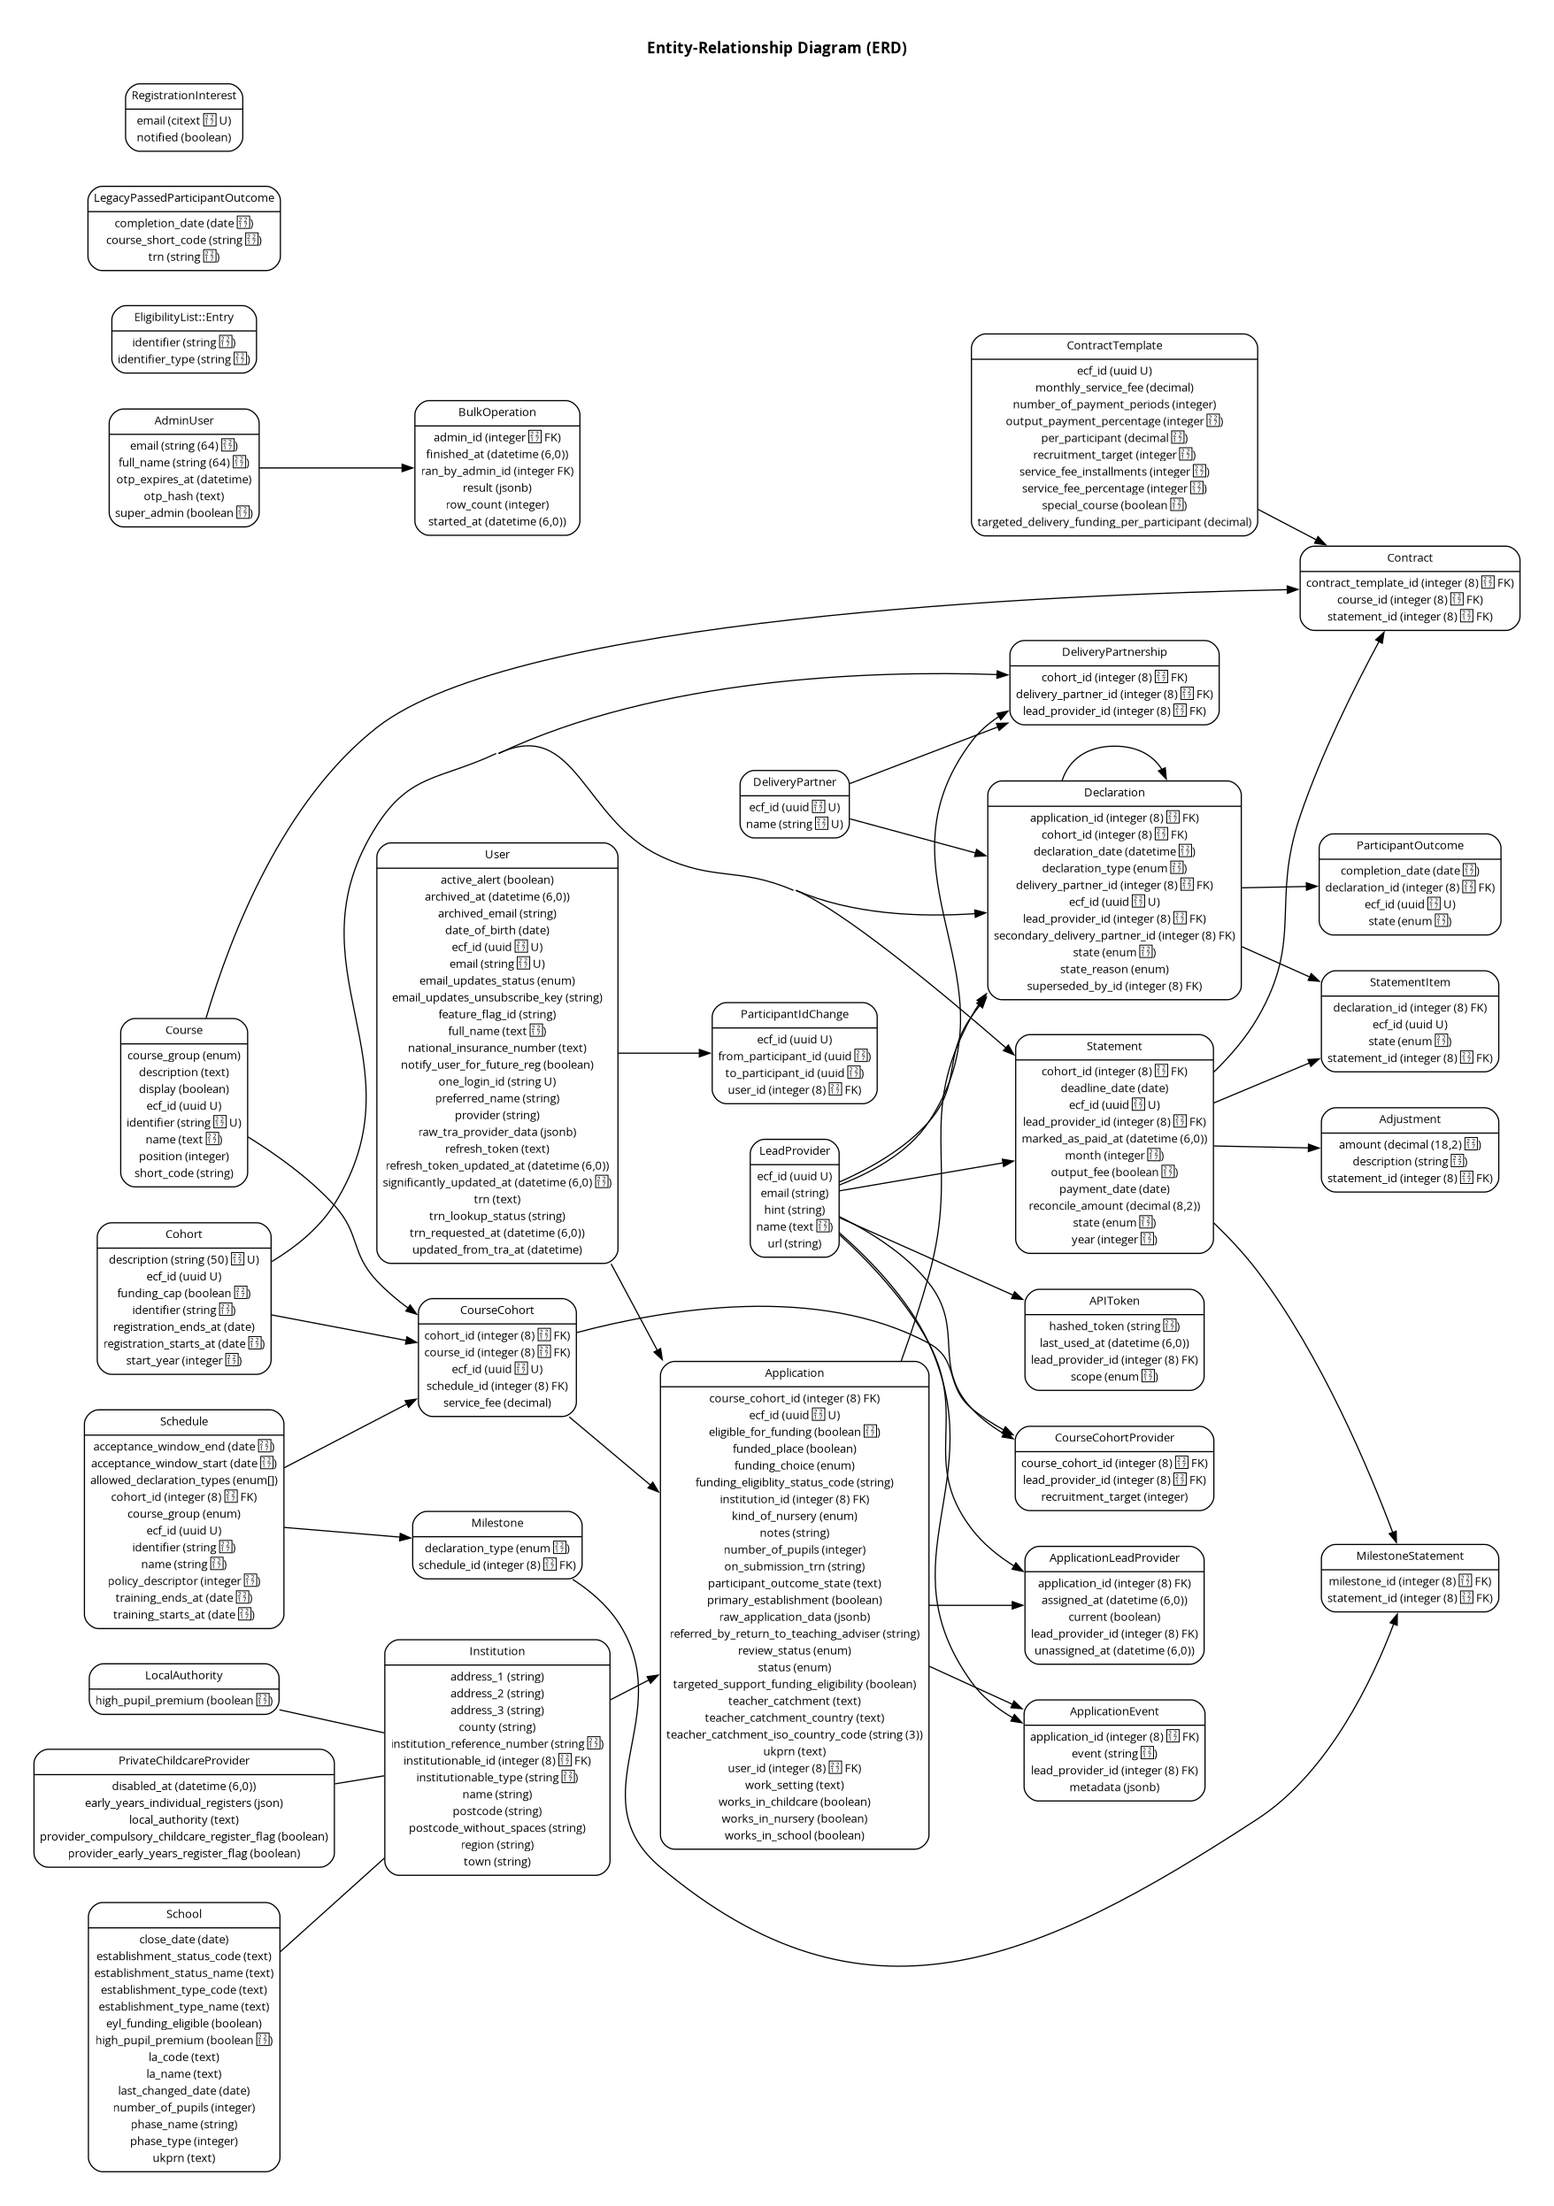
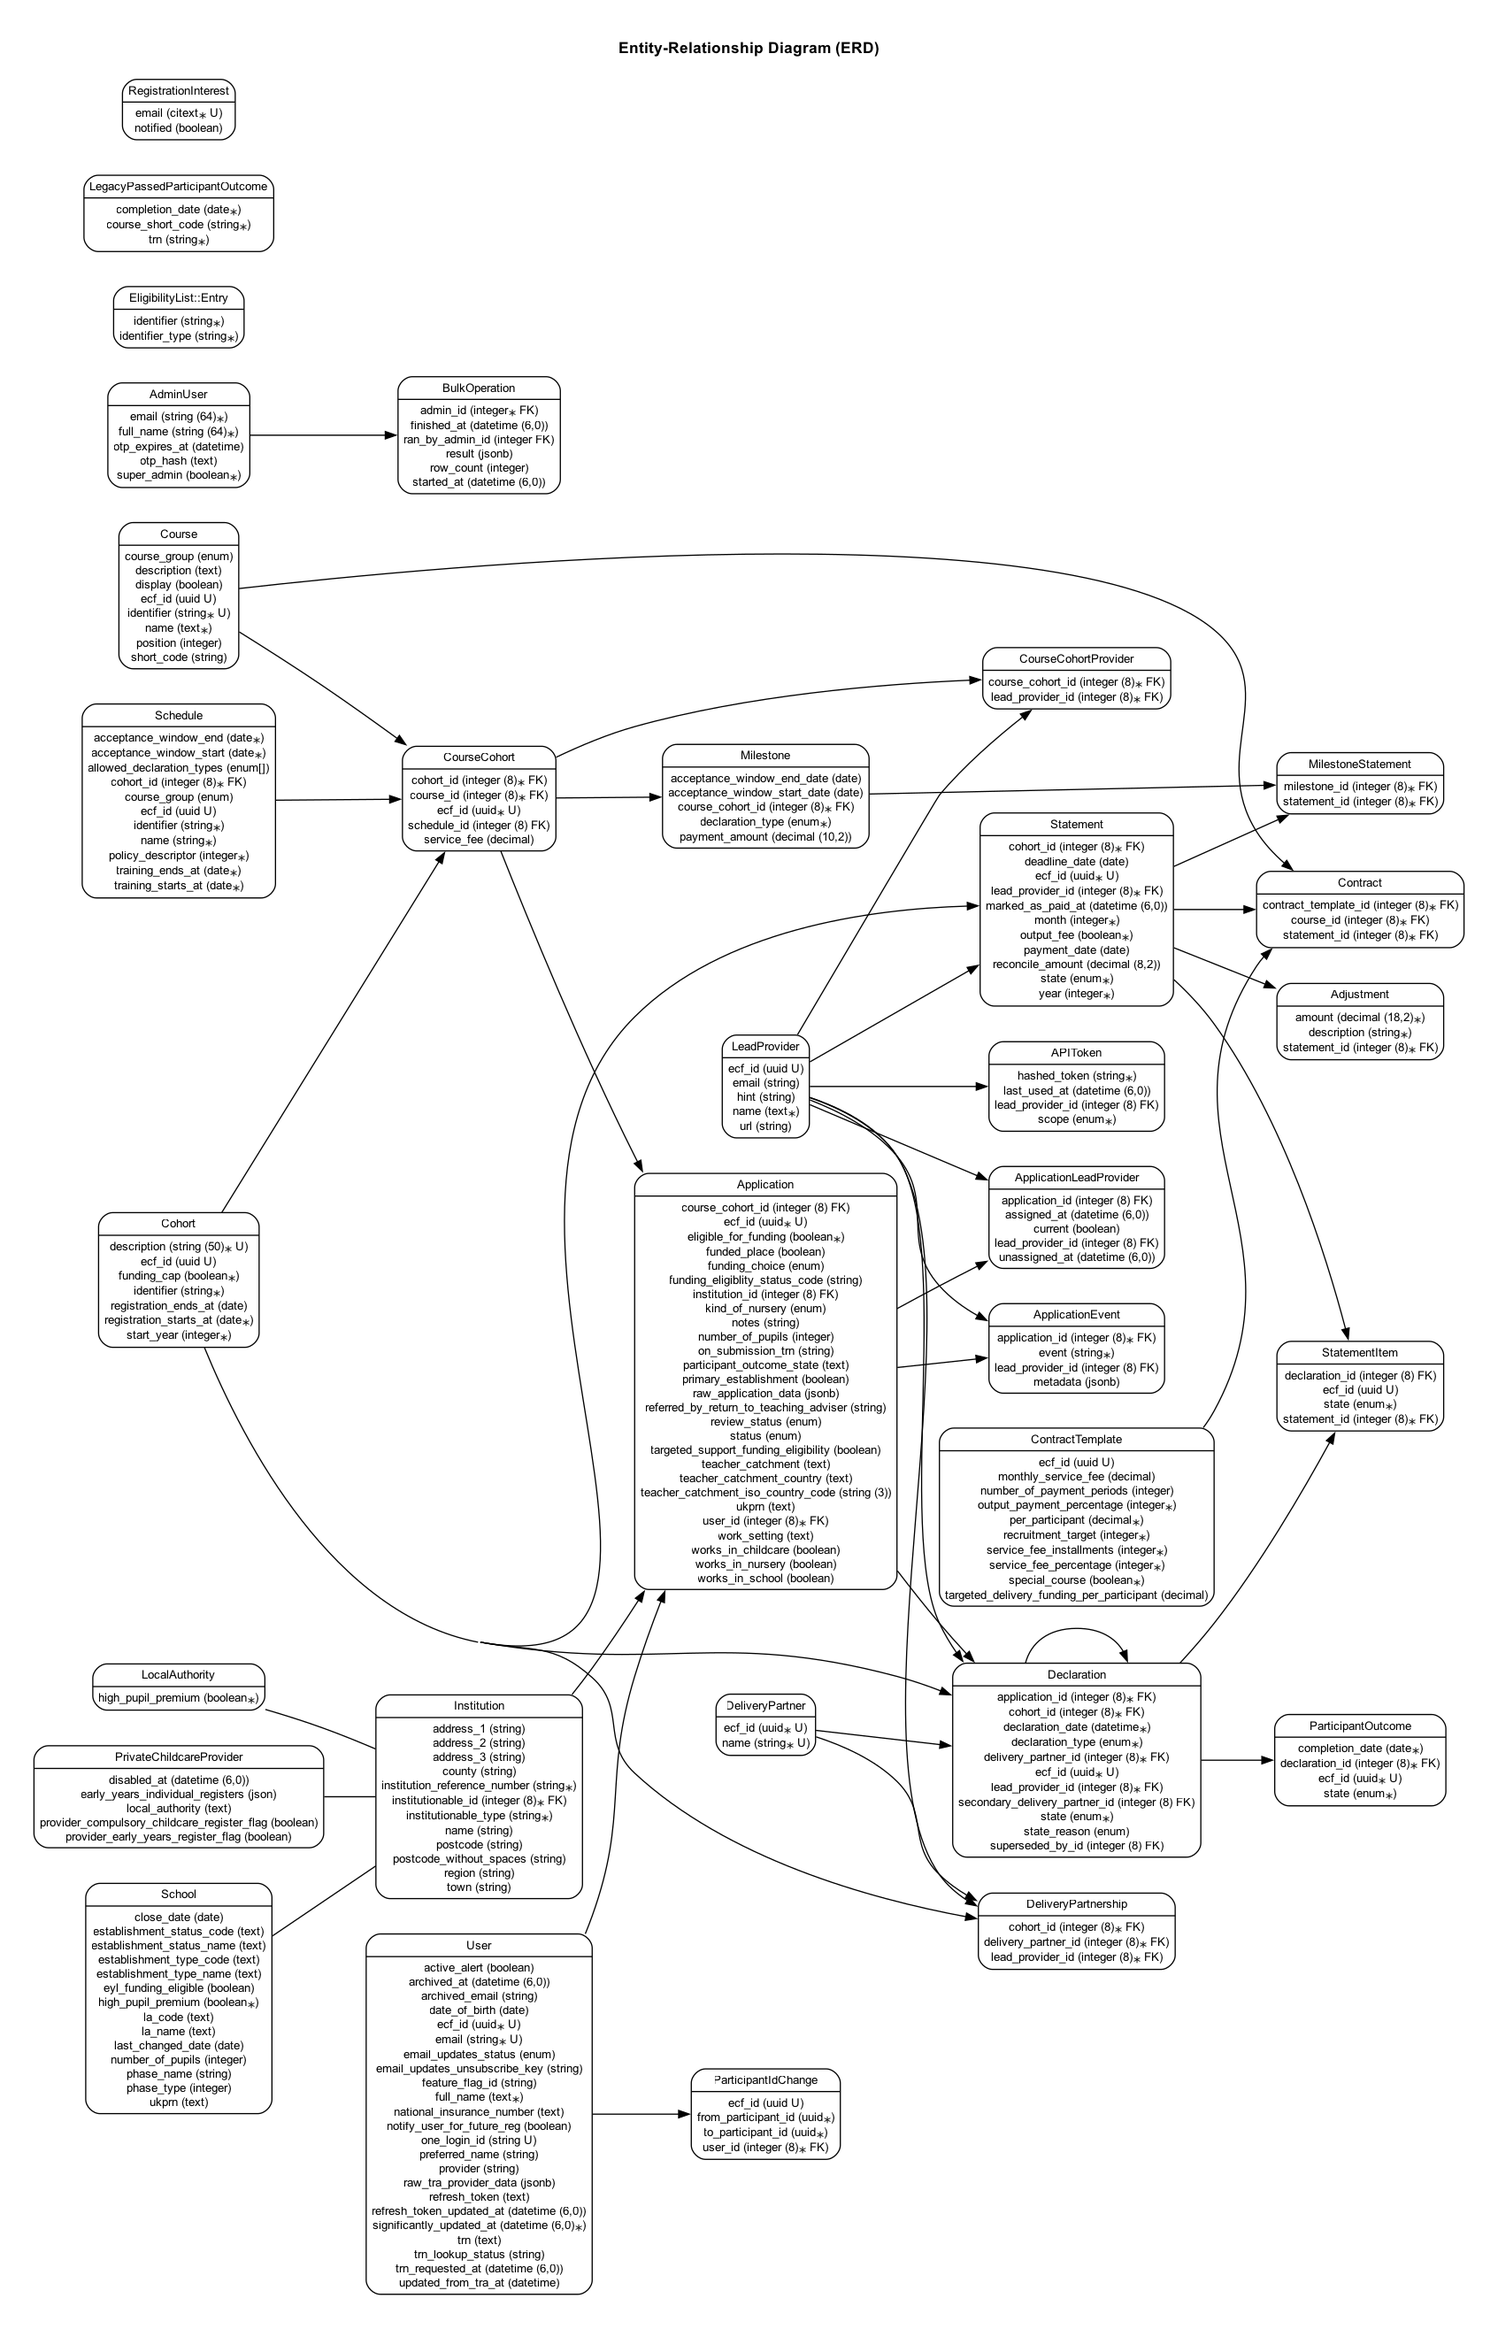
[606] Domain model changes for Milestone

diff --git a/spec/models/milestone_spec.rb b/spec/models/milestone_spec.rb
@@ -8,26 +8,103 @@ RSpec.describe Milestone, type: :model do
   describe "associations" do
     it { is_expected.to have_many(:milestone_statements) }
     it { is_expected.to have_many(:statements).through(:milestone_statements) }
-    it { is_expected.to belong_to(:schedule) }
+    it { is_expected.to belong_to(:course_cohort) }
   end
 
   describe "validations" do
-    context "when creating a milestone for a declaration type not in the schedule's allowed_declaration_types" do
-      subject(:milestone) { build(:milestone, declaration_type: "retained-1", schedule:, statements: [statement]) }
+    context "when creating a milestone for an invalid declaration type" do
+      subject(:milestone) { build(:milestone, declaration_type: "invalid", statements: [statement]) }
 
-      let(:schedule) { create(:schedule, allowed_declaration_types: %w[started completed]) }
       let(:statement) { create(:statement) }
 
       it { is_expected.to have_error(:declaration_type, :inclusion, "The declaration type should be one of the ones allowed by the schedule") }
     end
+
+    context "when an acceptance window overlaps another milestone in the same course cohort" do
+      subject(:milestone) do
+        build(
+          :milestone,
+          course_cohort:,
+          declaration_type: "completed",
+          acceptance_window_start_date: Date.new(2026, 1, 15),
+          acceptance_window_end_date: Date.new(2026, 2, 15),
+        )
+      end
+
+      let(:course_cohort) { create(:course_cohort, cohort: create(:cohort, registration_starts_at: Date.new(2026, 1, 1))) }
+
+      before do
+        create(
+          :milestone,
+          course_cohort:,
+          declaration_type: "started",
+          acceptance_window_start_date: Date.new(2026, 1, 1),
+          acceptance_window_end_date: Date.new(2026, 1, 31),
+        )
+      end
+
+      it { is_expected.to have_error(:base, :overlapping_acceptance_window, "Acceptance window overlaps with another milestone for this course cohort") }
+    end
+
+    context "when acceptance windows do not overlap in the same course cohort" do
+      let(:course_cohort) { create(:course_cohort) }
+
+      before do
+        create(
+          :milestone,
+          course_cohort:,
+          declaration_type: "started",
+          acceptance_window_start_date: Date.new(2026, 1, 1),
+          acceptance_window_end_date: Date.new(2026, 1, 31),
+        )
+      end
+
+      it "is valid" do
+        milestone = build(
+          :milestone,
+          course_cohort:,
+          declaration_type: "completed",
+          acceptance_window_start_date: Date.new(2026, 2, 1),
+          acceptance_window_end_date: Date.new(2026, 2, 28),
+        )
+
+        expect(milestone).to be_valid
+      end
+    end
+
+    context "when an acceptance window overlaps a milestone in another course cohort" do
+      let(:course_cohort) { create(:course_cohort) }
+
+      before do
+        create(
+          :milestone,
+          course_cohort: create(:course_cohort, cohort: create(:cohort, registration_starts_at: Date.new(2026, 2, 1))),
+          declaration_type: "started",
+          acceptance_window_start_date: Date.new(2026, 1, 1),
+          acceptance_window_end_date: Date.new(2026, 1, 31),
+        )
+      end
+
+      it "is valid" do
+        milestone = build(
+          :milestone,
+          course_cohort:,
+          declaration_type: "completed",
+          acceptance_window_start_date: Date.new(2026, 1, 15),
+          acceptance_window_end_date: Date.new(2026, 2, 15),
+        )
+
+        expect(milestone).to be_valid
+      end
+    end
   end
 
   describe "#in_declaration_type_order" do
-    let(:schedule) { create(:schedule) }
-    let(:started) { Milestone.create!(declaration_type: "started", schedule:) }
-    let(:retained_1) { Milestone.create!(declaration_type: "retained-1", schedule:) }
-    let(:retained_2) { Milestone.create!(declaration_type: "retained-2", schedule:) }
-    let(:completed) { Milestone.create!(declaration_type: "completed", schedule:) }
+    let(:course_cohort) { create(:course_cohort) }
+    let(:started) { create(:milestone, declaration_type: "started", course_cohort:) }
+    let(:retained_1) { create(:milestone, declaration_type: "retained-1", course_cohort:) }
+    let(:retained_2) { create(:milestone, declaration_type: "retained-2", course_cohort:) }
+    let(:completed) { create(:milestone, declaration_type: "completed", course_cohort:) }
 
     before do
       # create deliberately out of order
@@ -39,6 +116,48 @@ RSpec.describe Milestone, type: :model do
 
     it "orders by declaration_type according to DECLARATION_TYPES" do
       expect(Milestone.all.in_declaration_type_order).to eq([started, retained_1, retained_2, completed])
+    end
+  end
+
+  describe ".all" do
+    let(:course_cohort) { create(:course_cohort) }
+    let(:january_milestone) do
+      create(
+        :milestone,
+        course_cohort:,
+        declaration_type: "started",
+        acceptance_window_start_date: Date.new(2026, 1, 1),
+        acceptance_window_end_date: Date.new(2026, 1, 31),
+      )
+    end
+    let(:february_milestone) do
+      create(
+        :milestone,
+        course_cohort:,
+        declaration_type: "retained-1",
+        acceptance_window_start_date: Date.new(2026, 2, 1),
+        acceptance_window_end_date: Date.new(2026, 2, 28),
+      )
+    end
+    let(:march_milestone) do
+      create(
+        :milestone,
+        course_cohort:,
+        declaration_type: "completed",
+        acceptance_window_start_date: Date.new(2026, 3, 1),
+        acceptance_window_end_date: Date.new(2026, 3, 31),
+      )
+    end
+
+    before do
+      # create deliberately out of order
+      march_milestone
+      january_milestone
+      february_milestone
+    end
+
+    it "orders by acceptance_window_start_date by default" do
+      expect(Milestone.all).to eq([january_milestone, february_milestone, march_milestone])
     end
   end
 end

diff --git a/db/schema.rb b/db/schema.rb
@@ -412,12 +412,14 @@ ActiveRecord::Schema[8.1].define(version: 2026_07_16_095648) do
   end
 
   create_table "milestones", force: :cascade do |t|
+    t.date "acceptance_window_end_date"
+    t.date "acceptance_window_start_date"
+    t.bigint "course_cohort_id", null: false
     t.datetime "created_at", null: false
     t.enum "declaration_type", null: false, enum_type: "declaration_types"
-    t.bigint "schedule_id", null: false
+    t.decimal "payment_amount", precision: 10, scale: 2
     t.datetime "updated_at", null: false
-    t.index ["schedule_id", "declaration_type"], name: "index_milestones_on_schedule_id_and_declaration_type", unique: true
-    t.index ["schedule_id"], name: "index_milestones_on_schedule_id"
+    t.index ["course_cohort_id"], name: "index_milestones_on_course_cohort_id"
   end
 
   create_table "participant_id_changes", force: :cascade do |t|
@@ -641,7 +643,7 @@ ActiveRecord::Schema[8.1].define(version: 2026_07_16_095648) do
   add_foreign_key "delivery_partnerships", "lead_providers"
   add_foreign_key "milestone_statements", "milestones"
   add_foreign_key "milestone_statements", "statements"
-  add_foreign_key "milestones", "schedules"
+  add_foreign_key "milestones", "course_cohorts"
   add_foreign_key "participant_id_changes", "users"
   add_foreign_key "participant_outcome_api_requests", "participant_outcomes"
   add_foreign_key "participant_outcomes", "declarations"

diff --git a/app/models/milestone.rb b/app/models/milestone.rb
@@ -1,18 +1,33 @@
 class Milestone < ApplicationRecord
   has_paper_trail
 
-  ALL_DECLARATION_TYPES = %w[started retained-1 retained-2 completed].freeze
-
   has_many :milestone_statements
   has_many :statements, through: :milestone_statements
-  belongs_to :schedule
+  belongs_to :course_cohort
 
-  validates :declaration_type, inclusion: { in: ->(milestone) { milestone.schedule.allowed_declaration_types } }, if: :schedule
+  validates :declaration_type, inclusion: Declaration::DECLARATION_TYPES
+  validate :acceptance_window_does_not_overlap
 
   scope :in_declaration_type_order, -> { order(:declaration_type) }
+  default_scope { order(:acceptance_window_start_date) }
 
   def statement_date
     statement = statements.first
     Date.new(statement.year, statement.month, 1) if statement
+  end
+
+private
+
+  def acceptance_window_does_not_overlap
+    return if course_cohort_id.blank? || acceptance_window_start_date.blank? || acceptance_window_end_date.blank?
+
+    overlapping_milestone = Milestone
+      .where(course_cohort_id:)
+      .where.not(id:)
+      .where(acceptance_window_start_date: ..acceptance_window_end_date)
+      .where(acceptance_window_end_date: acceptance_window_start_date..)
+      .exists?
+
+    errors.add(:base, :overlapping_acceptance_window) if overlapping_milestone
   end
 end

diff --git a/db/migrate/20260715120100_remove_schedule_reference_from_milestones.rb b/db/migrate/20260715120100_remove_schedule_reference_from_milestones.rb
@@ -1,0 +1,23 @@
+class RemoveScheduleReferenceFromMilestones < ActiveRecord::Migration[8.1]
+  disable_ddl_transaction!
+
+  def up
+    remove_foreign_key :milestones, :schedules if foreign_key_exists?(:milestones, :schedules)
+
+    if index_exists?(:milestones, %i[schedule_id declaration_type], name: "index_milestones_on_schedule_id_and_declaration_type")
+      remove_index :milestones, name: "index_milestones_on_schedule_id_and_declaration_type", algorithm: :concurrently
+    end
+
+    remove_index :milestones, :schedule_id, algorithm: :concurrently if index_exists?(:milestones, :schedule_id)
+    safety_assured { remove_column :milestones, :schedule_id if column_exists?(:milestones, :schedule_id) }
+  end
+
+  def down
+    add_reference :milestones, :schedule, null: true, foreign_key: false, index: { algorithm: :concurrently }
+    add_index :milestones, %i[schedule_id declaration_type],
+              unique: true,
+              name: "index_milestones_on_schedule_id_and_declaration_type",
+              algorithm: :concurrently
+    add_foreign_key :milestones, :schedules, validate: false
+  end
+end

diff --git a/db/migrate/20260715120000_add_course_cohort_reference_to_milestones.rb b/db/migrate/20260715120000_add_course_cohort_reference_to_milestones.rb
@@ -1,0 +1,28 @@
+class AddCourseCohortReferenceToMilestones < ActiveRecord::Migration[8.1]
+  disable_ddl_transaction!
+
+  def up
+    unless column_exists?(:milestones, :course_cohort_id)
+      add_reference :milestones, :course_cohort, null: true, foreign_key: false, index: { algorithm: :concurrently }
+    end
+
+    safety_assured do
+      execute <<~SQL.squish
+        UPDATE milestones
+        SET course_cohort_id = course_cohorts.id
+        FROM course_cohorts
+        WHERE course_cohorts.schedule_id = milestones.schedule_id
+          AND course_cohort_id IS NULL
+      SQL
+    end
+
+    safety_assured { change_column_null :milestones, :course_cohort_id, false }
+    add_foreign_key :milestones, :course_cohorts, validate: false unless foreign_key_exists?(:milestones, :course_cohorts)
+  end
+
+  def down
+    remove_foreign_key :milestones, :course_cohorts
+    remove_index :milestones, :course_cohort_id, algorithm: :concurrently
+    remove_column :milestones, :course_cohort_id
+  end
+end

diff --git a/spec/models/course_cohort_spec.rb b/spec/models/course_cohort_spec.rb
@@ -9,6 +9,8 @@ RSpec.describe CourseCohort do
     it { is_expected.to belong_to(:schedule) }
     it { is_expected.to have_many(:course_cohort_providers).dependent(:destroy) }
     it { is_expected.to have_many(:lead_providers).through(:course_cohort_providers) }
+    it { is_expected.to have_many(:milestones).dependent(:destroy) }
+    it { is_expected.to have_many(:statements).through(:milestones) }
   end
 
   describe "validations" do

diff --git a/db/migrate/20260715120200_add_window_and_payment_fields_to_milestones.rb b/db/migrate/20260715120200_add_window_and_payment_fields_to_milestones.rb
@@ -1,0 +1,9 @@
+class AddWindowAndPaymentFieldsToMilestones < ActiveRecord::Migration[8.1]
+  def change
+    validate_foreign_key :milestones, :course_cohorts
+
+    add_column :milestones, :acceptance_window_start_date, :date
+    add_column :milestones, :acceptance_window_end_date, :date
+    add_column :milestones, :payment_amount, :decimal, precision: 10, scale: 2
+  end
+end

diff --git a/app/models/course_cohort.rb b/app/models/course_cohort.rb
@@ -7,6 +7,8 @@ class CourseCohort < ApplicationRecord
   has_many :lead_providers, through: :course_cohort_providers
 
   has_many :applications
+  has_many :milestones, dependent: :destroy
+  has_many :statements, through: :milestones
 
   validates :ecf_id, uniqueness: { case_sensitive: false }
   validates :course_id, uniqueness: { scope: :cohort_id }

diff --git a/app/models/schedule.rb b/app/models/schedule.rb
@@ -10,8 +10,6 @@ class Schedule < ApplicationRecord
 
   has_many :course_cohorts, dependent: :destroy
   has_many :courses, through: :course_cohorts
-  has_many :milestones
-  has_many :statements, through: :milestones
 
   scope :training_live, -> { where(training_starts_at: ..Time.zone.today, training_ends_at: Time.zone.today..) }
 

diff --git a/spec/models/schedule_spec.rb b/spec/models/schedule_spec.rb
@@ -53,7 +53,5 @@ RSpec.describe Schedule, type: :model do
 
   describe "associations" do
     it { is_expected.to belong_to(:cohort) }
-    it { is_expected.to have_many(:milestones) }
-    it { is_expected.to have_many(:statements).through(:milestones) }
   end
 end

diff --git a/spec/factories/milestones.rb b/spec/factories/milestones.rb
@@ -1,6 +1,6 @@
 FactoryBot.define do
   factory :milestone do
     declaration_type { :started }
-    association(:schedule)
+    course_cohort
   end
 end
